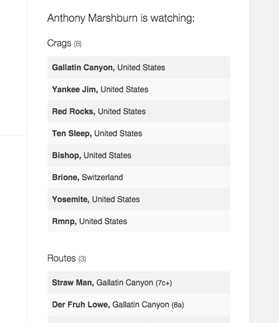
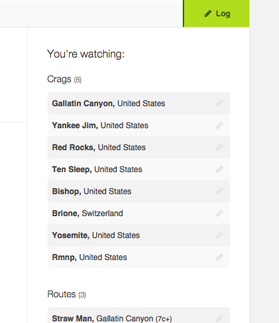
add large version of screenshots - click to open

diff --git a/public/templates/splash.html b/public/templates/splash.html
@@ -37,7 +37,9 @@
       <div>
         <h2 class="feature-title">Log your climbing sessions in detail</h2>
         <div class="feature-image">
-          <img src="/img/ss/log.png" width="279" />
+          <a class="fancybox" href="/img/ss/log_full.png" rel="features">
+            <img src="/img/ss/log.png" width="279" />
+          </a>
         </div>
         <p>
           Better understand your progression as a rock climber by tracking your efforts (the good and the bad), your physical condition, the weather, who you climbed with—all of it.
@@ -48,7 +50,9 @@
       <div>
         <h2 class="feature-title">Follow your friends, foes, and heros</h2>
         <div class="feature-image">
-          <img src="/img/ss/follow.png" width="279" />
+          <a class="fancybox" href="/img/ss/follow_full.png" rel="features">
+            <img src="/img/ss/follow.png" width="279" />
+          </a>
         </div>
         <p>
           Stay psyched by following fellow athletes who you care about. Push each other harder in 2015.
@@ -59,7 +63,9 @@
       <div>
         <h2 class="feature-title">Watch your favorite crags, boulder problems, and routes</h2>
         <div class="feature-image">
-          <img src="/img/ss/watch.png" width="279" />
+          <a class="fancybox" href="/img/ss/watch_full.png" rel="features">
+            <img src="/img/ss/watch.png" width="279" />
+          </a>
         </div>
         <p>
           Tailor your activity feed based on the areas and climbs you care about. Stay informed of ascents, new development, and general beta.

diff --git a/public/templates/dashboard.html b/public/templates/dashboard.html
@@ -10,7 +10,7 @@
     <% if (this.app.profile.member.username !== 'island'
         && this.app.profile.member.role !== 2) { %>
       <div class="sidebar-watchees">
-        <span class="sidebar-heading">You're watching</span>
+        <span class="sidebar-heading">You're watching:</span>
         <div class="sidebar-crags"></div>
         <div class="sidebar-ascents-r"></div>
         <div class="sidebar-ascents-b"></div>

diff --git a/public/templates/ticks.html b/public/templates/ticks.html
@@ -60,7 +60,7 @@
 <div class="rightside">
   <div class="sidebar-items">
     <div class="sidebar-watchees">
-      <span class="sidebar-heading"><%= owner %> watching</span>
+      <span class="sidebar-heading"><%= owner %> watching:</span>
       <div class="sidebar-crags"></div>
       <div class="sidebar-ascents-r"></div>
       <div class="sidebar-ascents-b"></div>

diff --git a/public/js/views/splash.js b/public/js/views/splash.js
@@ -90,6 +90,15 @@ define([
         headers: false
       });
 
+      // Handle the screenshots.
+      this.$('.fancybox').fancybox({
+        openEffect: 'fade',
+        closeEffect: 'fade',
+        closeBtn: false,
+        nextClick: true,
+        padding: 0
+      });
+
       return this;
     },
 

diff --git a/public/css/style.css b/public/css/style.css
@@ -1514,6 +1514,7 @@ ul.splash-features li > div {
   border-radius: 5px;
   background: #f9f9f9;
   padding: 20px 30px;
+  height: 511px;
 }
 h2.feature-title {
   font-size: 21px;
